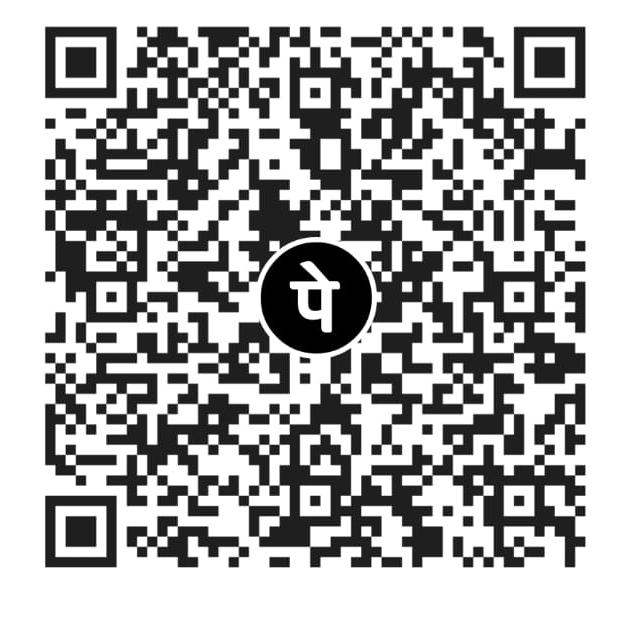
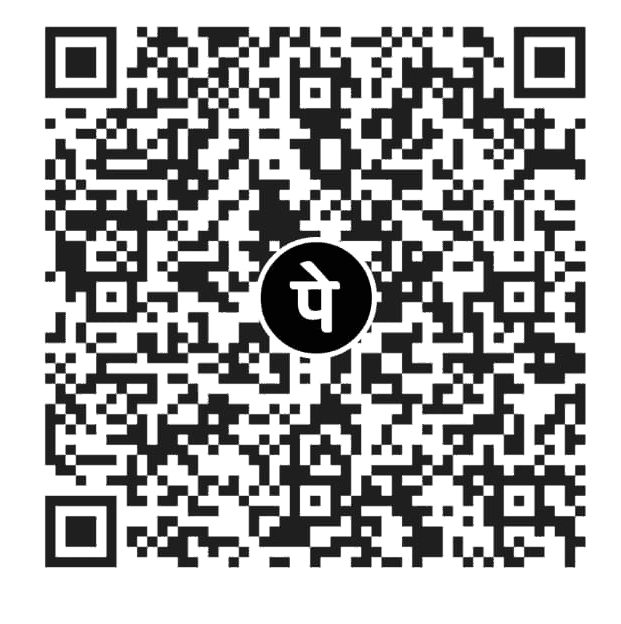
Accessibility and first-view pass from the awwwards audit
- Skip link and a <main> landmark on every page (legal pages' own <main>
  becomes a div); new chrome.skip text in en/te/hi, logged for native review.
- Contrast: WhatsApp green #25A862 -> #16854A (white text was 3.06:1),
  saffron #B0601F -> #964C14 (text was 4.23:1), small print #95795B -> #7A5F42.
  Floating and menu WhatsApp buttons use the same green.
- Touch targets: nav links and call-to-action, logo, menu button, language
  pills, footer links, week arrows and "Open on YouTube" are taller.
- Razorpay checkout script is deferred (no longer blocks first paint).
- PhonePe QR: same picture in 16 colours, 152 KB -> 49 KB; decodes to the
  identical UPI string. Width/height and lazy loading added.

Lighthouse (mobile, local build): Accessibility 94-95 -> 100 on Home, Jyotish, Bach.
npm test passes.

Claude-Session: https://claude.ai/code/session_01GHNCdj4oCktjJ3jVBc8vti

diff --git a/src/assets/theme.css b/src/assets/theme.css
@@ -11,7 +11,7 @@
   --paper:#FFFCF8;   --paper-2:#FFF3E6;   --card:#FFFFFF;
   --ink:#2F2418;     --body:#51402F;      --dim:#74644F;
   --sun:#F4A860;     --sun-deep:#EE9546;  --sun-soft:#FBD9B0;  --sun-wash:#FFF0DC;
-  --gold:#E4B24F;    --saffron:#B0601F;   --copper:#7A4A2E;
+  --gold:#E4B24F;    --saffron:#964C14;   --copper:#7A4A2E;
   --lotus:#B05A7B;   --leaf:#547F61;      --sky:#5A87A8;
   --cta:var(--sun);  --cta-deep:var(--sun-deep); --cta-text:#3A2108; --cta-soft:#FDE7CC;
   --line:rgba(122,74,46,.15);
@@ -51,7 +51,7 @@ nav{background:rgba(255,252,248,.88);backdrop-filter:blur(16px) saturate(1.15);b
 .btn-leaf:hover{background:var(--leaf);color:#fff}
 .btn-outline{border:1.5px solid var(--line);color:var(--dim);background:#fff}
 .btn-outline:hover,.btn-outline:focus-visible{background:#FFF1E2;border-color:var(--sun-deep);color:#8A3F0B}
-.btn-wa{background:#25A862;color:#fff}
+.btn-wa{background:#16854A;color:#fff}
 .hero-link{color:#A04F14;text-decoration-color:rgba(160,79,20,.4)}
 
 .eyebrow{font-weight:700;letter-spacing:.3em;font-size:.7rem}
@@ -288,3 +288,28 @@ html[lang="te"] .hero-grid h1,html[lang="hi"] .hero-grid h1{font-size:clamp(1.8r
 .check-inline{display:flex;gap:8px;align-items:flex-start;font-size:.86rem;color:var(--body);margin-top:8px;font-weight:500!important}
 .check-inline input{width:auto!important;margin-top:3px}
 .hold-form .field .check-inline{display:flex}
+
+
+/* ── Accessibility pass (27 Nov 2026) ───────────────────────────────────── */
+/* Skip link: first Tab stop, visible only when focused */
+.skip-link{position:absolute;left:12px;top:-64px;z-index:1000;background:#2F2418;color:#FFF3E6;padding:12px 18px;border-radius:12px;font-weight:600;transition:top .15s}
+.skip-link:focus{top:10px;outline:3px solid #F4A860;outline-offset:2px}
+main:focus{outline:none}
+/* WhatsApp green with enough contrast for white text and icon (white on the old #25D366 was under 2:1) */
+.wa-float,.mobile-nav .mn-wa{background:#16854A;color:#fff}
+.wa-float{box-shadow:0 8px 24px rgba(22,133,74,.4)}
+.btn-wa:hover{box-shadow:0 6px 20px rgba(22,133,74,.4)}
+/* Small print: was 3.7:1 on the cream background */
+.fine{color:#7A5F42}
+/* Touch targets: at least 44px tall where it does not change the look */
+.logo{min-height:44px}
+.nav-links a{padding-top:3px}
+.nav-links a.nav-cta{padding:8px 16px}
+.foot-logo{display:inline-block;padding:11px 0}
+.wk-btn{min-height:44px}
+.vid-cap a{padding:12px 0;margin-top:0}
+.nav-toggle{min-width:44px;min-height:44px;align-items:center;justify-content:center}
+.lang-switch a{padding:9px 12px;display:inline-flex;align-items:center}
+.foot-contact a,.foot-links a{display:inline-block;padding:12px 0}
+.foot-links{gap:0 20px}
+@media(max-width:720px){.foot-links{gap:0}}

diff --git a/docs/TRANSLATION-CHANGES-LOG.md b/docs/TRANSLATION-CHANGES-LOG.md
@@ -733,3 +733,12 @@ key | before | gist | after | why
 `checkin.js.next.steadyLine` | ज़िंदगी की दिशा या सही समय को लेकर मन में सवाल हैं? <a href="/hi/jyotish.html#booking-widget" data-label="next:jyotish">ज्योतिष पर एक बातचीत</a> मदद कर सकती है। या और भावनात्मक सहारा चाहें तो <a href="/hi/bach.html#booking-widget" data-label="next:bach">बाख फ्लावर रेमेडीज़</a>। | Have questions about direction or timing in life? A Jyotish conversation can help; or Bach Flower remedies if you'd like more emotional support. | ज़िंदगी की दिशा या सही समय को लेकर मन में सवाल हैं? <a href="/hi/jyotish.html#booking-widget" data-label="next:jyotish">ज्योतिष पर एक बातचीत</a> मदद कर सकती है। या अगर मन को थोड़ा और सहारा चाहिए, तो <a href="/hi/bach.html#booking-widget" data-label="next:bach">बाख फ्लावर रेमेडीज़</a> देख सकते हैं। | Last sentence was a verbless English fragment ('Or Bach Flower remedies if…'); completed as a natural Hindi sentence. Links, URLs and 'can help' unchanged.
 `checkin.js.saveMsg.needContact` | कृपया कम से कम एक व्हाट्सऐप नंबर या ईमेल दीजिए ताकि श्रीकांत आप तक पहुँच सकें। | Please give at least a WhatsApp number or email so Srikanth can contact you. | कृपया कम से कम एक व्हाट्सऐप नंबर या ईमेल दीजिए, ताकि श्रीकांत आपसे संपर्क कर सकें। | 'आप तक पहुँच सकें' is a literal 'reach you'; 'आपसे संपर्क कर सकें' is the usual phrase.
 `checkin.js.saveMsg.error` | अभी सेव नहीं हो पाया, पर ऊपर दिखी आपकी झलक आपके पास ही है — चाहें तो स्क्रीनशॉट ले लें या व्हाट्सऐप पर भेज दें। | Couldn't save now, but the reflection above is still with you; take a screenshot or send it on WhatsApp if you like. | अभी सेव नहीं हो पाया, पर ऊपर दिखी आपकी झलक आपके पास ही है — चाहें तो इसका स्क्रीनशॉट ले लीजिए या व्हाट्सऐप पर भेज दीजिए। | Only the verbs: 'ले लें / भेज दें' -> '-लीजिए / -दीजिए' to match the आप + -इए forms used across the page; adds 'इसका' so the screenshot has an object.
+
+
+## New string, 27 Nov 2026: skip link (accessibility)
+
+Added so keyboard and screen-reader visitors can jump past the menu. Please have a native reader confirm the wording.
+
+key | en | te | hi
+---|---|---|---
+`chrome.skip` | Skip to main content | ప్రధాన కంటెంట్కు వెళ్లండి | मुख्य सामग्री पर जाएँ
